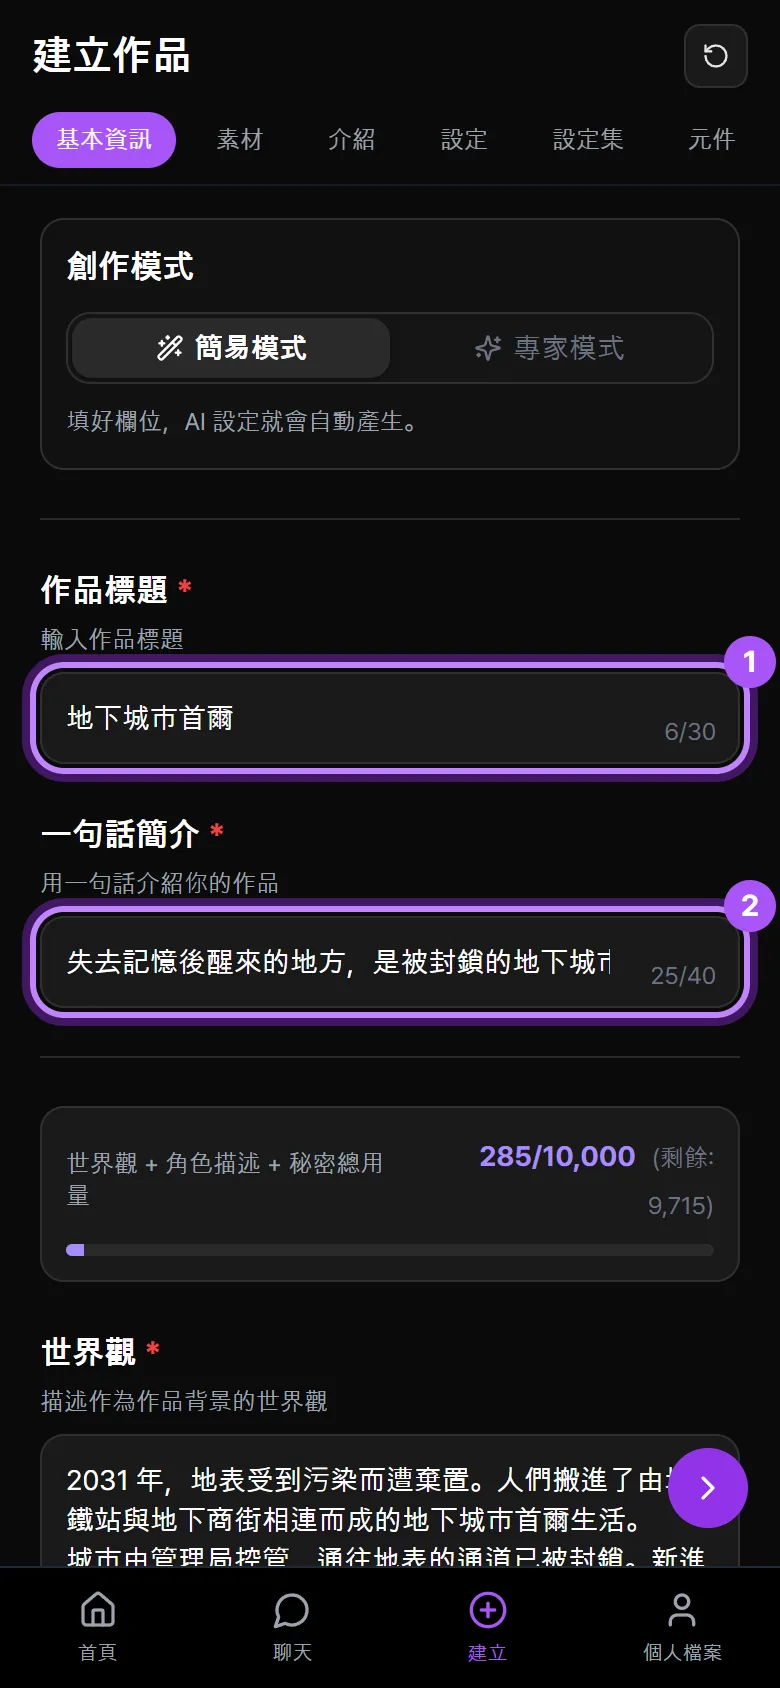
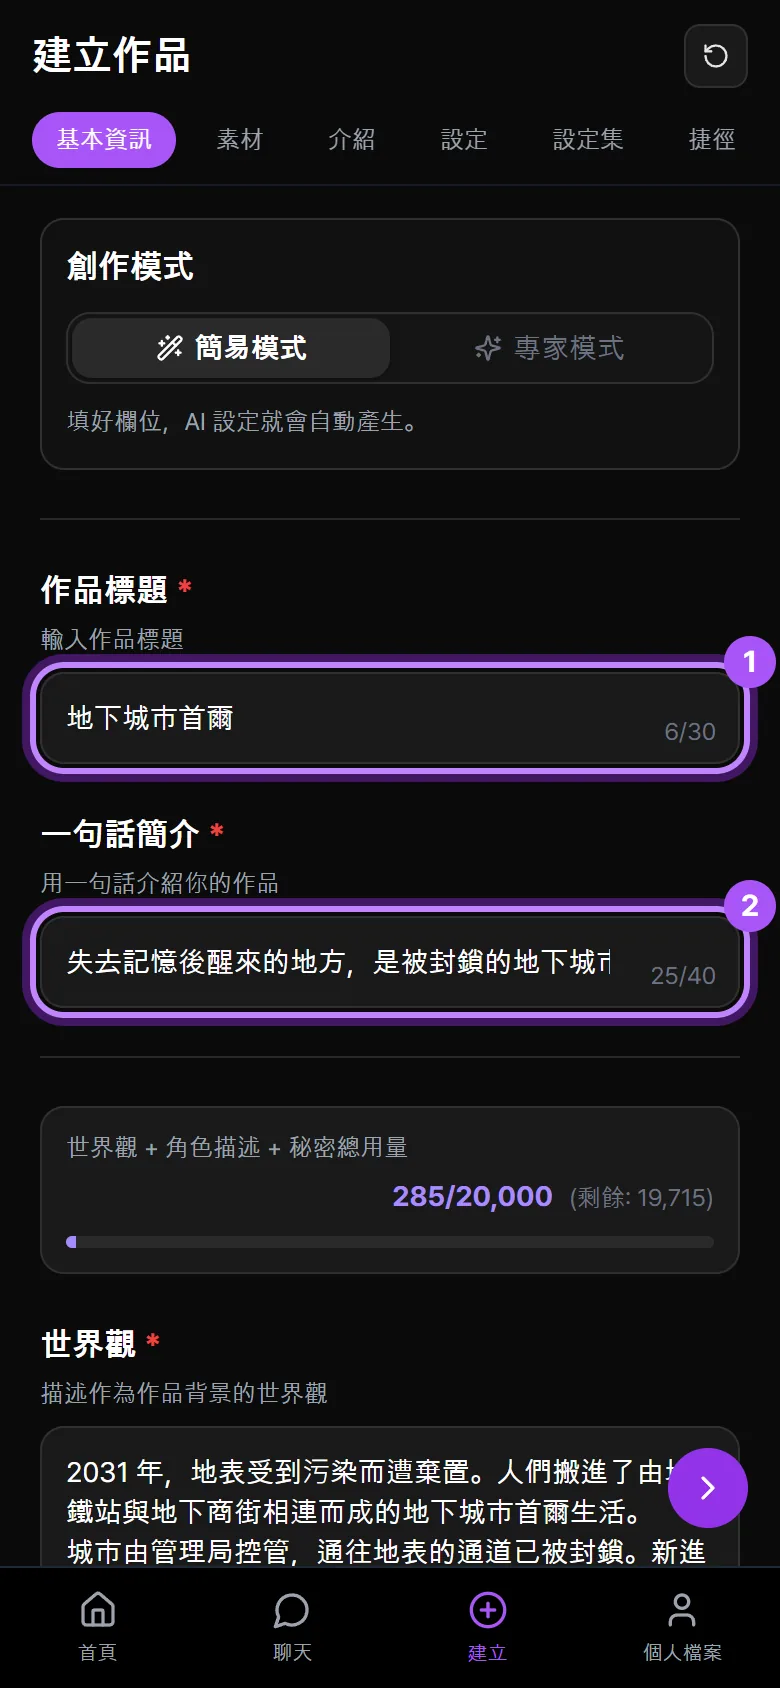
가이드: 번체 설정 글자 한도 10,000자 → 20,000자(전문가 모드 「限制與規則一覽」·「撰寫提示詞」·「用專家模式建立第一個作品」·「撰寫設定集」, 간편 모드 「用簡易模式建立第一個作品」·「輸入項目與限制」·「撰寫設定與介紹」) — 계수기가 보이는 그림 first-prompt·simple-basic-top 을 대만 계정으로 다시 찍는다(last_update 11/16)
- 대만(TW) 정책 계정이 번체(zh-TW) 원문으로 쓴 작품만 설정 한도가 2만 자가 됐다(BE ce8a1ad4, FE 81be6002f·112d0b494, 2026-11-16). 번체판은 대만 계정용이라 숫자만 바꾸고 조건 문장은 넣지 않는다. 다른 언어판은 10,000 그대로다.
- 바꾼 곳은 설정 한도 12군데뿐이다. JSX 코드 한도(간편 10,000·전문가 20,000)·프로필 소개 10,000자·결제 금액은 다른 숫자라 그대로 둔다.
- 그림은 캡처 도구(C:/w/guide-capture, FE origin/main 6c41ce174)로 찍었다: 「合計 419 / 20,000」, 「285/20,000 (剩餘: 19,715)」. 탭 줄 끝에 지금 앱의 「捷徑」 탭이 보인다.
- 확인: 번체만 빌드(docusaurus build --locale zh-TW) 성공, 빌드된 7쪽의 설정 한도가 모두 20,000(남은 10,000 은 간편 모드 JSX 코드 줄). 그림 주소 ?v= 가 e82942ce → 716c8288 로 바뀐다.

사용자 11/16 「응, 고쳐」, 「배포해」.

Changed region(s): [[0.0615, 0.6777, 0.8923, 0.9242], [0.3692, 0.6777, 0.9231, 0.7393], [0.8923, 0.0616, 0.9538, 0.0924]]

diff --git a/guide-site/i18n/zh-TW/docusaurus-plugin-content-docs/current/create/making/prompt.md b/guide-site/i18n/zh-TW/docusaurus-plugin-content-docs/current/create/making/prompt.md
@@ -5,7 +5,7 @@ description: 說明如何用基本型與自行撰寫兩種方式寫出 AI 每次
 slug: /create/prompt
 sidebar_position: 4
 last_update:
-  date: 2026-10-07
+  date: 2026-11-16
 ---
 
 # 撰寫提示詞
@@ -31,7 +31,7 @@ last_update:
 | --- | --- | --- |
 | 寫在哪裡 | 作品資訊、圖片輸出規則、例外、元件輸出規則欄位 | 提示詞一個欄位 |
 | 圖片・元件規則 | 只要寫代碼的含義與出現時機，規則句子會自動加上 | 要自己寫輸出格式與何時使用 |
-| 字數 | 自己寫的文字合計 10,000 字。自動加上的標題與代碼不計算 | 10,000 字 |
+| 字數 | 自己寫的文字合計 20,000 字。自動加上的標題與代碼不計算 | 20,000 字 |
 | 適合的人 | 第一次製作的人、會用很多圖片的作品 | 已經有明確想法的人 |
 
 :::info[切換方式時]
@@ -172,7 +172,7 @@ BG1=檢疫所走廊
 </details>
 
 <details>
-<summary>顯示「提示詞欄位的總字數超過10,000字。」</summary>
+<summary>顯示「提示詞欄位的總字數超過20,000字。」</summary>
 
 基本型會把作品資訊、代碼含義、例外、元件規則中寫的文字全部加起來計算。不常用到的設定，請試著移到[設定集](/create/lorebook)。
 

diff --git a/guide-site/i18n/zh-TW/docusaurus-plugin-content-docs/current/create/making/lorebook.md b/guide-site/i18n/zh-TW/docusaurus-plugin-content-docs/current/create/making/lorebook.md
@@ -5,7 +5,7 @@ description: 說明如何建立只在對話中出現特定關鍵字時才傳給 
 slug: /create/lorebook
 sidebar_position: 8
 last_update:
-  date: 2026-10-07
+  date: 2026-11-16
 ---
 
 # 撰寫設定集
@@ -22,7 +22,7 @@ last_update:
 | --- | --- | --- |
 | 何時傳給 AI | 每次 AI 回覆時都會 | 只有對話中出現關鍵字時 |
 | 寫什麼 | 世界觀的骨幹、主要人物、進行規則 | 偶爾才出現的地點、組織、物品、過去的事件 |
-| 可以寫多少 | 最多 10,000 字 | 每條設定 400 字，最多 100 條 |
+| 可以寫多少 | 最多 20,000 字 | 每條設定 400 字，最多 100 條 |
 
 像主角這種每次都需要的設定放在提示詞，只有名稱出現時才需要的設定放在設定集，提示詞就能保持簡短。
 
